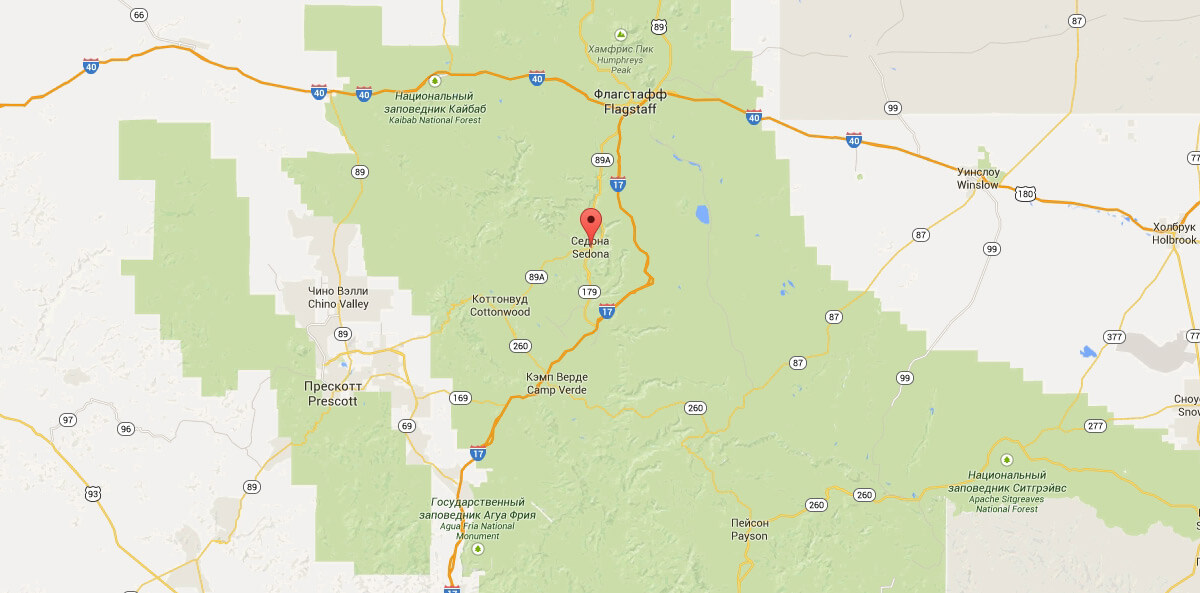
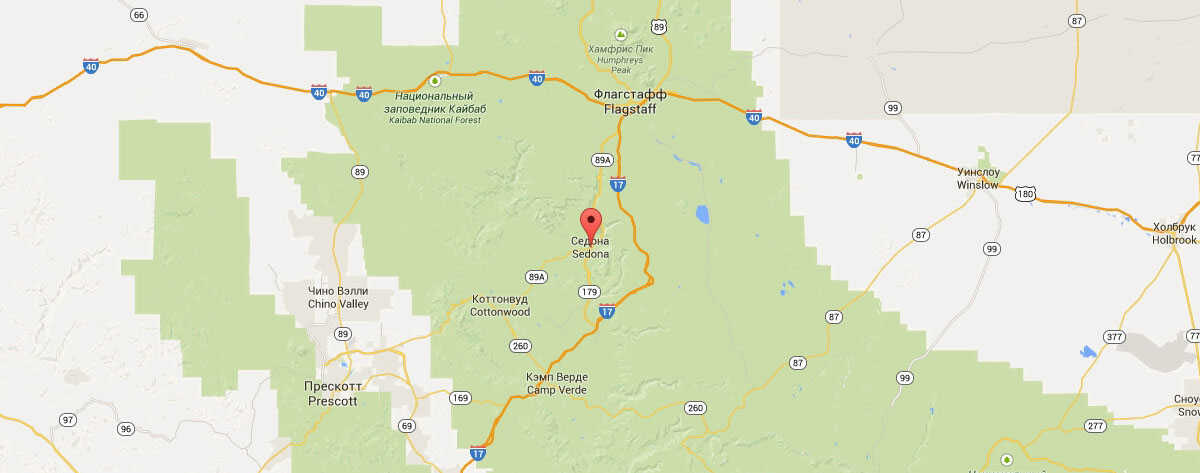
правки и выравнивания

diff --git a/index.html b/index.html
@@ -23,7 +23,7 @@
   </header>
 
   <main class="main-content">
-    <img class="main-content__promo-image img-block" src="img/index/promo.jpg" width="1200" height="564" alt="Welcome to the gorgeous SEDONA because the Grand Canyon sucks!">
+    <img class="main-content__promo-image img-block" src="img/index/promo.jpg" width="1200" height="508" alt="Welcome to the gorgeous SEDONA because the Grand Canyon sucks!">
     <h1 class="main-content__title">СЕДОНА — небольшой городок в АРИЗОНЕ, зАСЛУЖИвающий большего!</h1>
 
     <div class="main-content__feautures main-feautures">
@@ -112,18 +112,18 @@
     </section>
 
     <section class="main-content__map-area map-area">
-      <img class="map-area__map-image img-block" src="img/index/map.jpg" width="1200" height="593" alt="Карта расположения Седоны">
+      <img class="map-area__map-image img-block" src="img/index/map.jpg" width="1200" height="473" alt="Карта расположения Седоны">
     </section>
   </main>
 
     <footer class="main-footer">
-      <p class="main-footer__teg">#visitSEDONA</p>
-      <ul class="main-footer__b-social-list b-social-list">
+      <p class="main-footer__teg width-calc">#visitSEDONA</p>
+      <ul class="main-footer__b-social-list b-social-list width-calc">
         <li class="b-social-list__item"><a href="#" class="b-social-list__link b-social-list__link_tw"><span class="visually-hidden">twitter</span></a></li>
         <li class="b-social-list__item"><a href="#" class="b-social-list__link b-social-list__link_fb"><span class="visually-hidden">facebook</span></a></li>
         <li class="b-social-list__item"><a href="#" class="b-social-list__link b-social-list__link_yt"><span class="visually-hidden">youtube</span></a></li>
       </ul>
-      <p class="main-footer__copyright">
+      <p class="main-footer__copyright width-calc">
         <span>WEBSITE by</span>
         <a href="https://htmlacademy.ru/intensive/htmlcss" class="main-footer__link"><svg class="main-footer__image img-block" width="115" height="41" id="Layer_1" data-name="Layer 1" xmlns="http://www.w3.org/2000/svg" viewBox="0 0 113 39"><title>logo_name</title>
           <path d="M401.93,351.51a2.07,2.07,0,0,0,.58-0.11v1.4a3.41,3.41,0,0,1-1.24.22,1.75,1.75,0,0,1-1.75-1,5.08,5.08,0,0,1-3.3,1.13c-1.59,0-3.06-.87-3.06-2.68,0-2.24,2.08-2.93,3.9-2.93a11.63,11.63,0,0,1,2.28.26v-0.31c0-1.09-.8-1.86-2.3-1.86a7.79,7.79,0,0,0-3.15.67v-1.79a10.72,10.72,0,0,1,3.35-.58c2.48,0,4,1.18,4,3.83v3.14A0.57,0.57,0,0,0,401.93,351.51Zm-6.76-1.19a1.42,1.42,0,0,0,1.64,1.29,3.56,3.56,0,0,0,2.53-1V349.1a10.21,10.21,0,0,0-1.9-.22C396.34,348.89,395.17,349.23,395.17,350.33Z" transform="translate(-355.09 -323.29)" fill="#fff"></path>

diff --git a/hotels.html b/hotels.html
@@ -173,13 +173,13 @@
   </main>
 
   <footer class="main-footer">
-    <p class="main-footer__teg">#visitSEDONA</p>
-    <ul class="main-footer__b-social-list b-social-list">
+    <p class="main-footer__teg width-calc">#visitSEDONA</p>
+    <ul class="main-footer__b-social-list b-social-list width-calc">
       <li class="b-social-list__item"><a href="#" class="b-social-list__link b-social-list__link_tw"><span class="visually-hidden">twitter</span></a></li>
       <li class="b-social-list__item"><a href="#" class="b-social-list__link b-social-list__link_fb"><span class="visually-hidden">facebook</span></a></li>
       <li class="b-social-list__item"><a href="#" class="b-social-list__link b-social-list__link_yt"><span class="visually-hidden">youtube</span></a></li>
     </ul>
-    <p class="main-footer__copyright">
+    <p class="main-footer__copyright width-calc">
       <span>WEBSITE by</span>
       <a href="https://htmlacademy.ru/intensive/htmlcss" class="main-footer__link"><svg class="main-footer__image img-block" width="115" height="41" id="Layer_1" data-name="Layer 1" xmlns="http://www.w3.org/2000/svg" viewBox="0 0 113 39"><title>logo_name</title>
         <path d="M401.93,351.51a2.07,2.07,0,0,0,.58-0.11v1.4a3.41,3.41,0,0,1-1.24.22,1.75,1.75,0,0,1-1.75-1,5.08,5.08,0,0,1-3.3,1.13c-1.59,0-3.06-.87-3.06-2.68,0-2.24,2.08-2.93,3.9-2.93a11.63,11.63,0,0,1,2.28.26v-0.31c0-1.09-.8-1.86-2.3-1.86a7.79,7.79,0,0,0-3.15.67v-1.79a10.72,10.72,0,0,1,3.35-.58c2.48,0,4,1.18,4,3.83v3.14A0.57,0.57,0,0,0,401.93,351.51Zm-6.76-1.19a1.42,1.42,0,0,0,1.64,1.29,3.56,3.56,0,0,0,2.53-1V349.1a10.21,10.21,0,0,0-1.9-.22C396.34,348.89,395.17,349.23,395.17,350.33Z" transform="translate(-355.09 -323.29)" fill="#fff"></path>

diff --git a/css/style.css b/css/style.css
@@ -164,6 +164,14 @@ img {
   padding-top: 50px;
 }
 
+.b-feauture_right {
+  order: 2;
+}
+
+.feauture-with-image__image_right {
+  order: 2;
+}
+
 .b-feauture_theme_blue {
   color: #ffffff;
 
@@ -270,7 +278,7 @@ img {
   flex-direction: column;
   align-items: center;
 
-  padding-top: 55px;
+  padding-top: 60px;
 }
 
 .searching-hotels__title {
@@ -417,7 +425,7 @@ img {
   display: flex;
   align-items: center;
 
-  margin-bottom: 54px;
+  margin-bottom: 53px;
 }
 
 .b-amount {
@@ -434,8 +442,9 @@ img {
 }
 
 .b-amount:nth-child(2n+1) {
-  width: 229px;
+  width: 227px;
   margin-left: 0;
+  margin-right: 2px;
 }
 
 .b-amount__field {
@@ -1027,10 +1036,14 @@ img {
 .main-footer {
   display: flex;
   flex-wrap: wrap;
-  justify-content: space-around;
+  justify-content: center;
   align-items: center;
 
   min-height: 120px;
+}
+
+.width-calc {
+  width: calc(100% / 3);
 }
 
 .main-footer__teg {
@@ -1040,11 +1053,13 @@ img {
   font-size: 21px;
   line-height: 26px;
   font-weight: 700;
+  text-align: center;
   color: black;
 }
 
 .b-social-list {
   display: flex;
+  justify-content: center;
   flex-wrap: wrap;
 
   margin: 0;
@@ -1121,6 +1136,7 @@ img {
   padding: 0;
 
   line-height: 26px;
+  text-align: center;
   color: black;
 }
 
